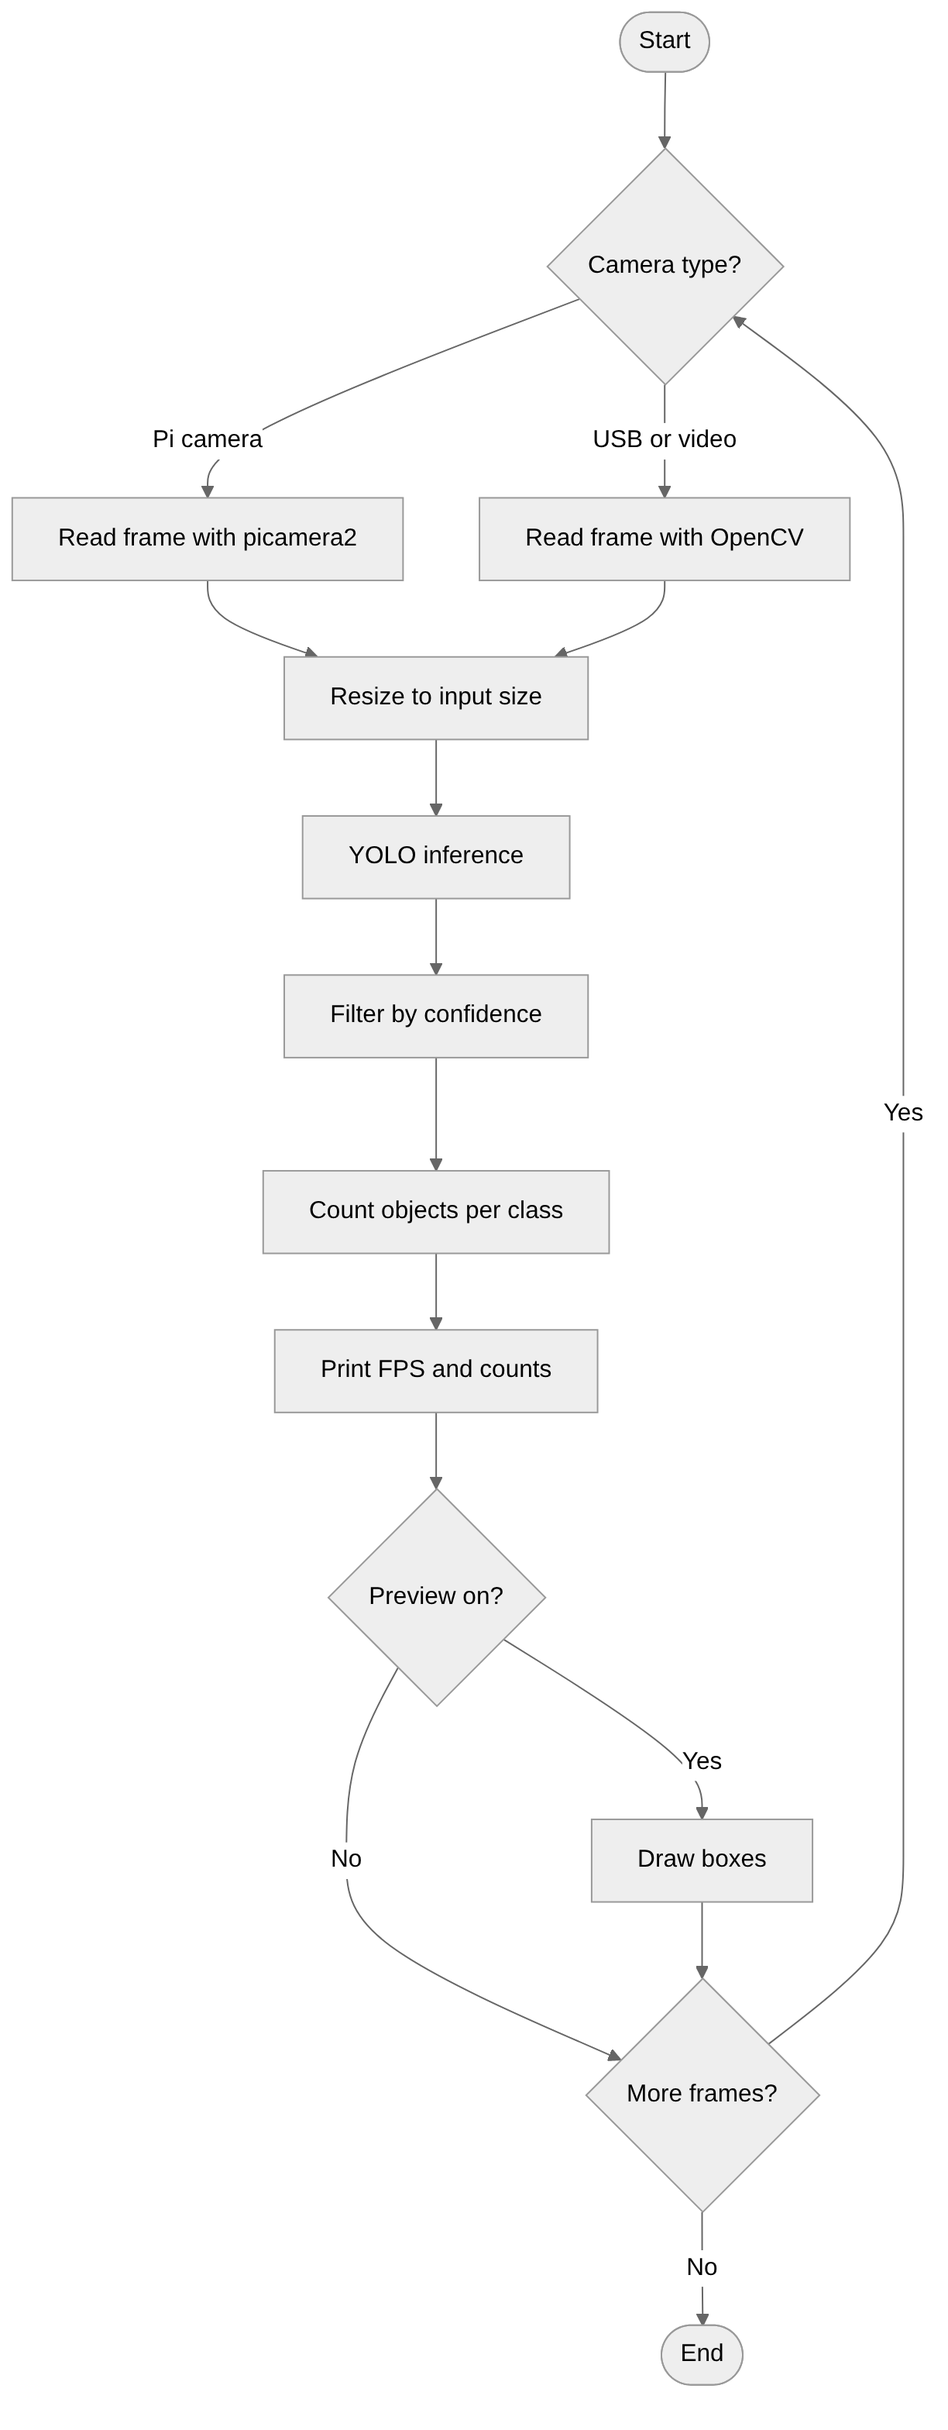
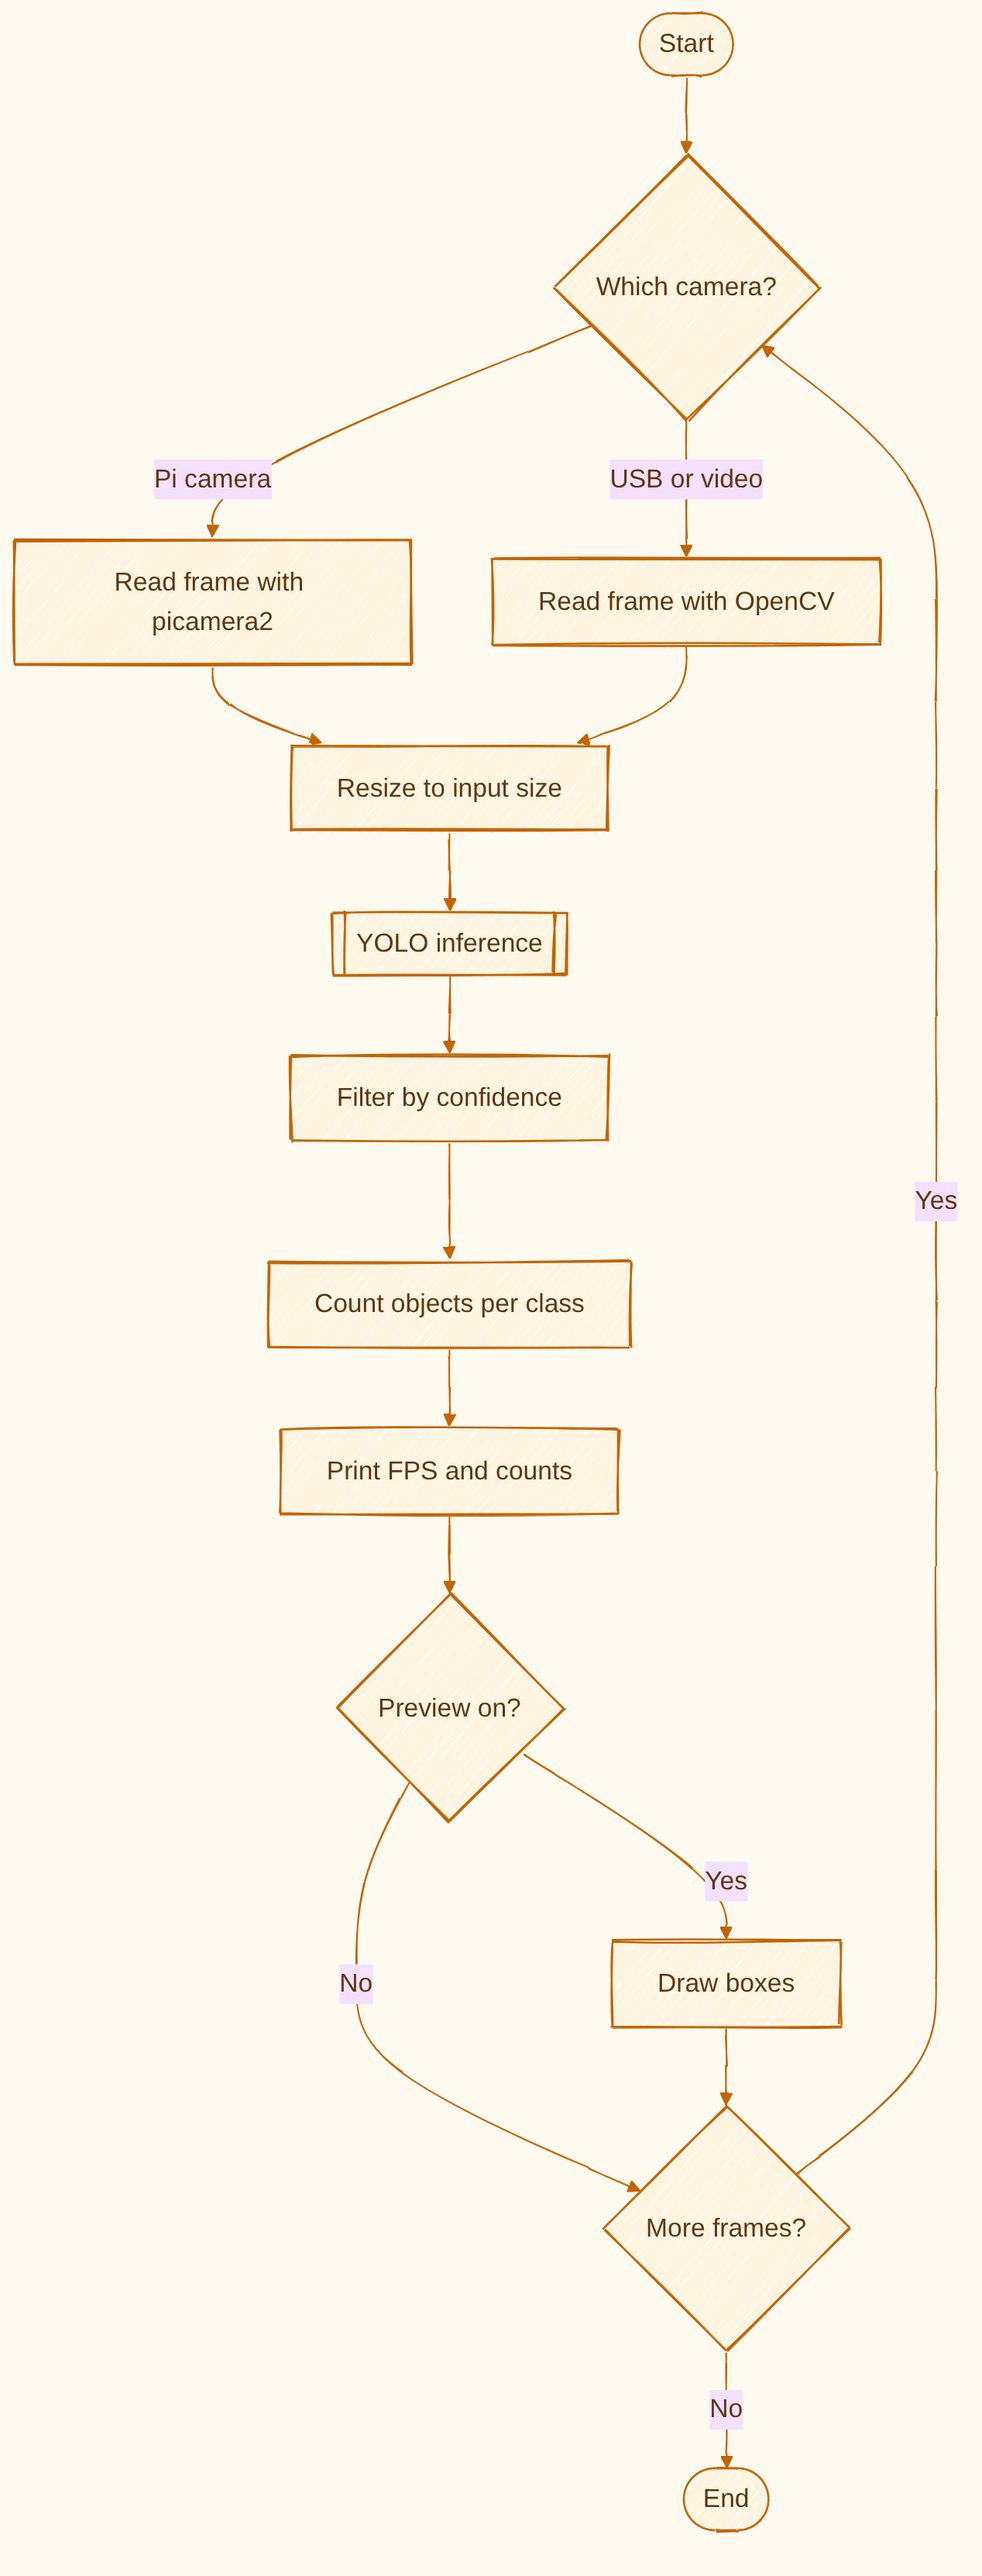
Redesign flowchart

diff --git a/README.md b/README.md
@@ -41,7 +41,7 @@ More findings:
 
 ## Flowchart
 
-<p align="center"><img src="results/flowchart.png" width="520" alt="Flowchart"></p>
+<p align="center"><img src="results/flowchart.png" width="460" alt="Flowchart"></p>
 
 ## Run it
 
